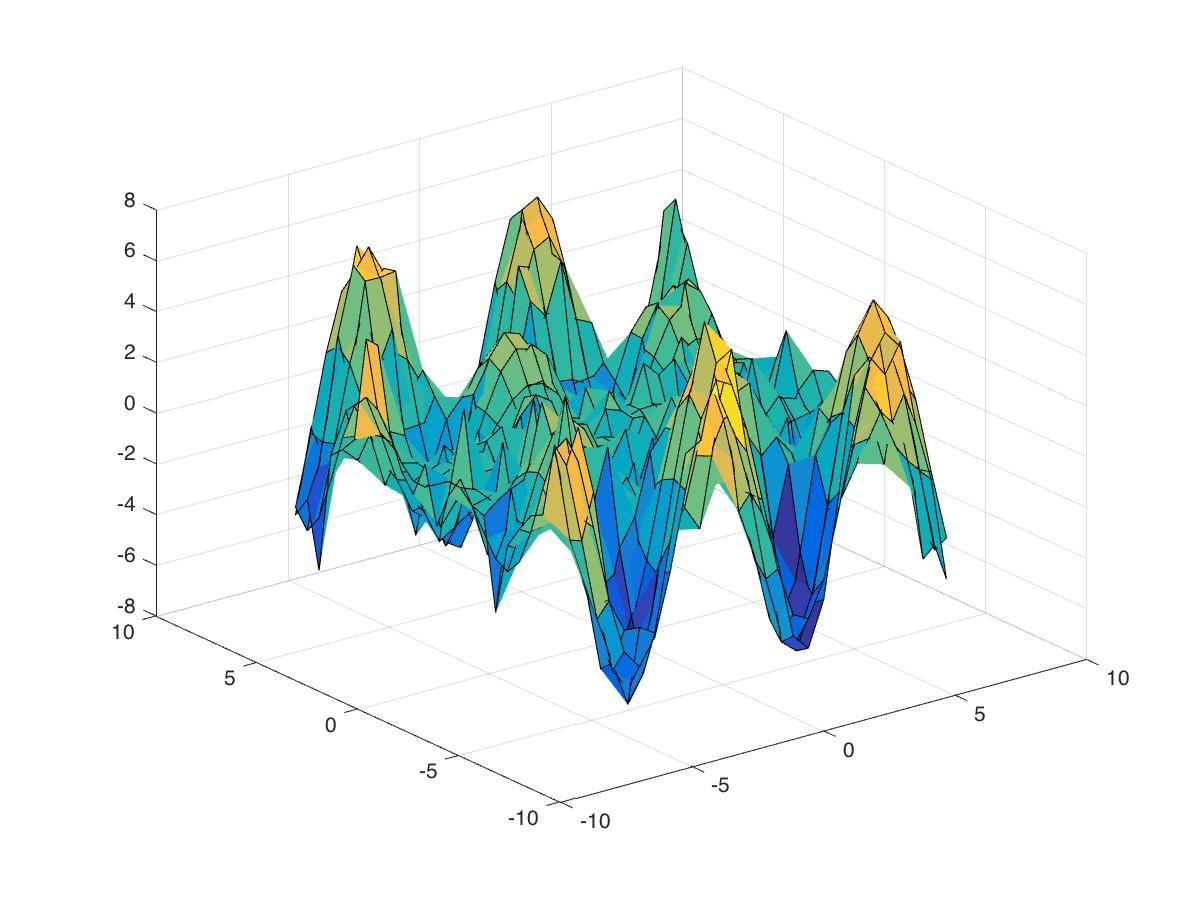
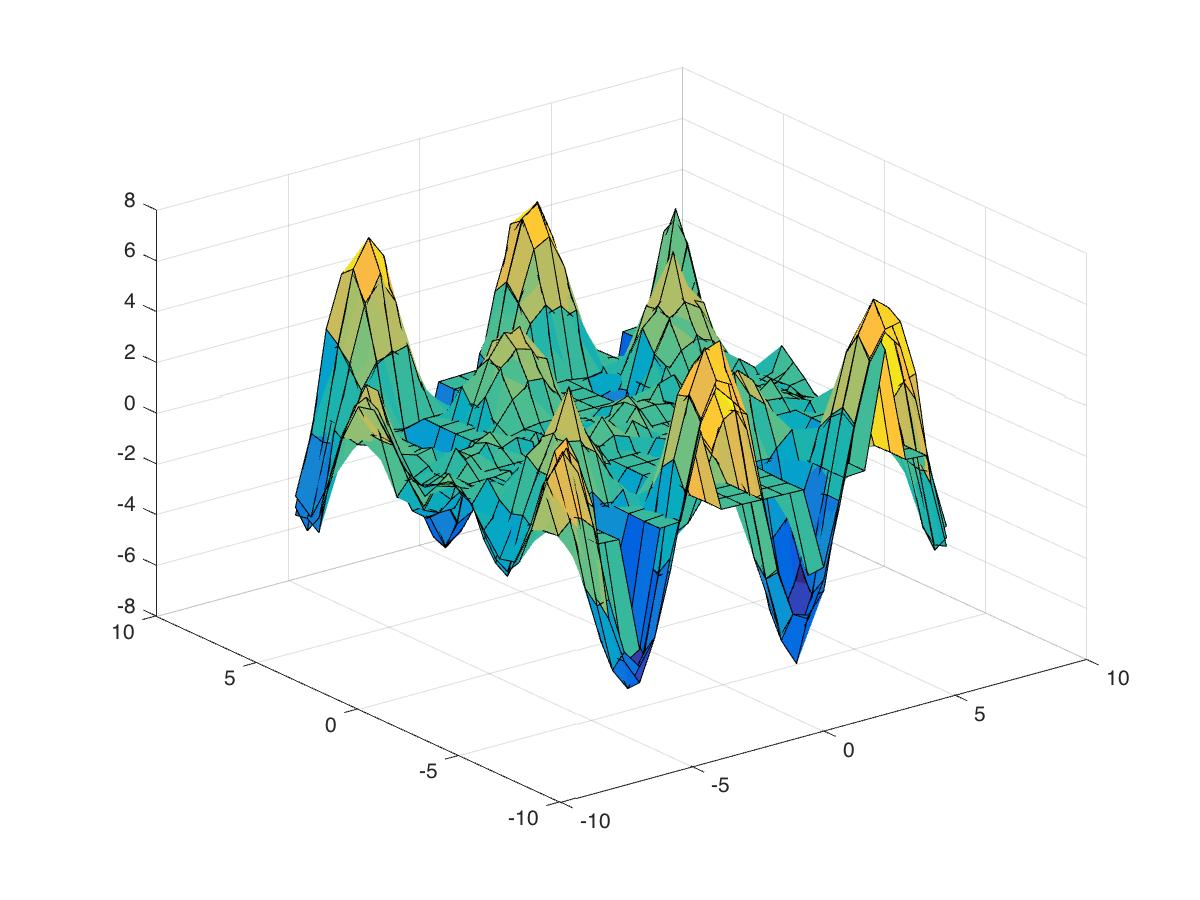
Polishing demos in 1 and 2 d

Changed region(s): [[0.2467, 0.2178, 0.8017, 0.7778]]

diff --git a/Code/Demos/GP_params.m b/Code/Demos/GP_params.m
@@ -1,0 +1,20 @@
+function[params] =GP_params()
+
+% Demo parameters
+params.num_dp = 625;
+params.bdry = 7;
+params.data_noise = 10;
+params.restart_noise = 1.5;
+params.n_iters = 3;
+params.n_restarts = 1;
+params.t_o_1D = [3 0.5 0.5];
+params.t_o_2D = [3 0.25 0.25 0.5];
+params.rel_grid_size = 0.75;
+
+% MMF parameters
+params.k = 2;
+params.ndensestages = 1;
+params.fraction = 0.7;
+params.maxclustersize = 100;
+params.bypass=3;
+params.minclustersize = 1;
